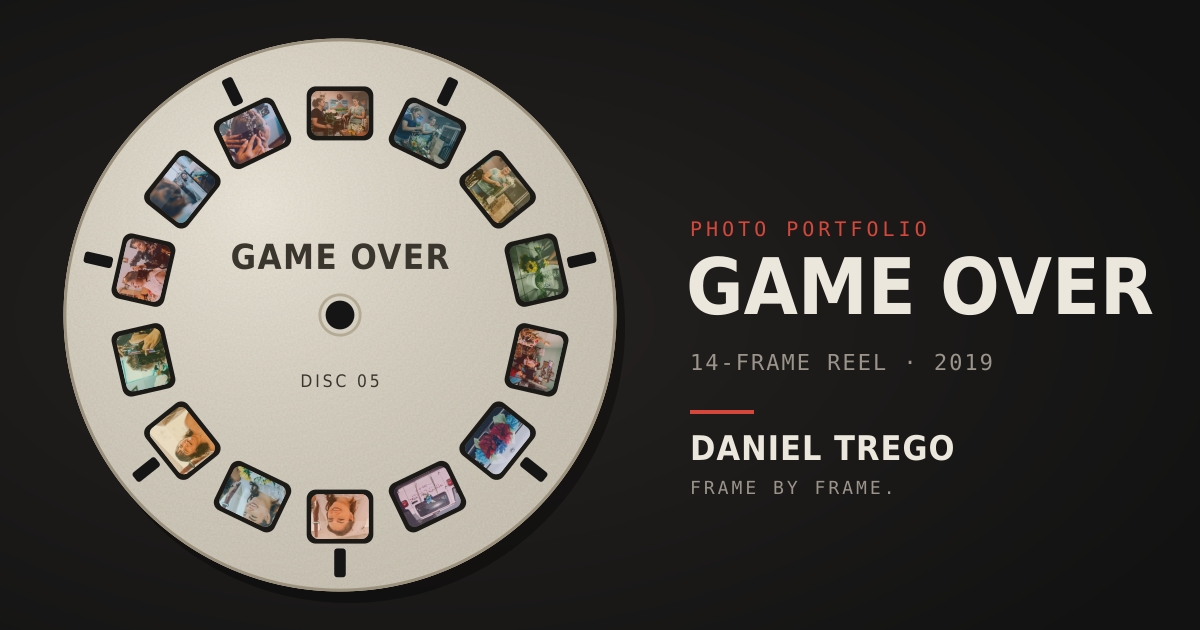
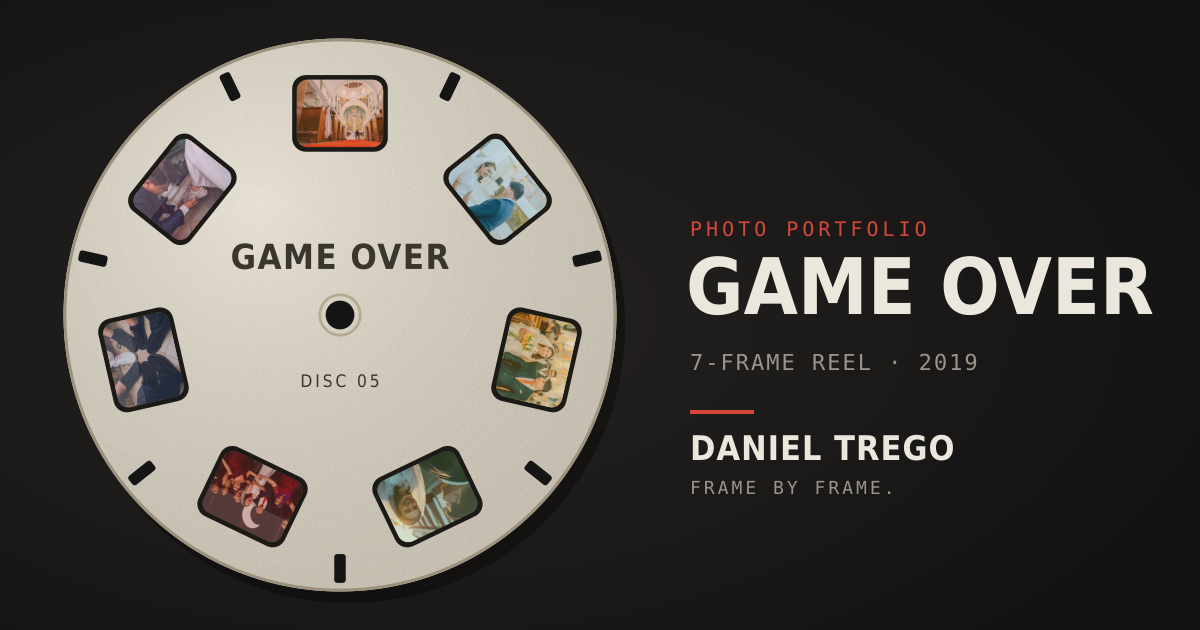
Publish selected website content from private portfolio repo

diff --git a/reel/game-over/index.html b/reel/game-over/index.html
@@ -1,11 +1,11 @@
 <!DOCTYPE html>
 <html lang="en"><head><meta charset="utf-8">
 <title>Game Over · Daniel Trego</title>
-<meta name="description" content="A 14-frame reel, 2019.">
+<meta name="description" content="A 7-frame reel, 2019.">
 <meta property="og:type" content="website">
 <meta property="og:site_name" content="Daniel Trego">
 <meta property="og:title" content="Game Over · Daniel Trego">
-<meta property="og:description" content="A 14-frame reel, 2019.">
+<meta property="og:description" content="A 7-frame reel, 2019.">
 <meta property="og:url" content="https://danieltrego.com/reel/game-over/">
 <meta property="og:image" content="https://danieltrego.com/reel/game-over/card.png">
 <meta property="og:image:width" content="1200">
@@ -13,7 +13,7 @@
 <meta property="og:image:alt" content="Game Over reel">
 <meta name="twitter:card" content="summary_large_image">
 <meta name="twitter:title" content="Game Over · Daniel Trego">
-<meta name="twitter:description" content="A 14-frame reel, 2019.">
+<meta name="twitter:description" content="A 7-frame reel, 2019.">
 <meta name="twitter:image" content="https://danieltrego.com/reel/game-over/card.png">
 <link rel="canonical" href="https://danieltrego.com/reel/game-over/">
 <meta http-equiv="refresh" content="0; url=/portfolio/?disc=game-over">
